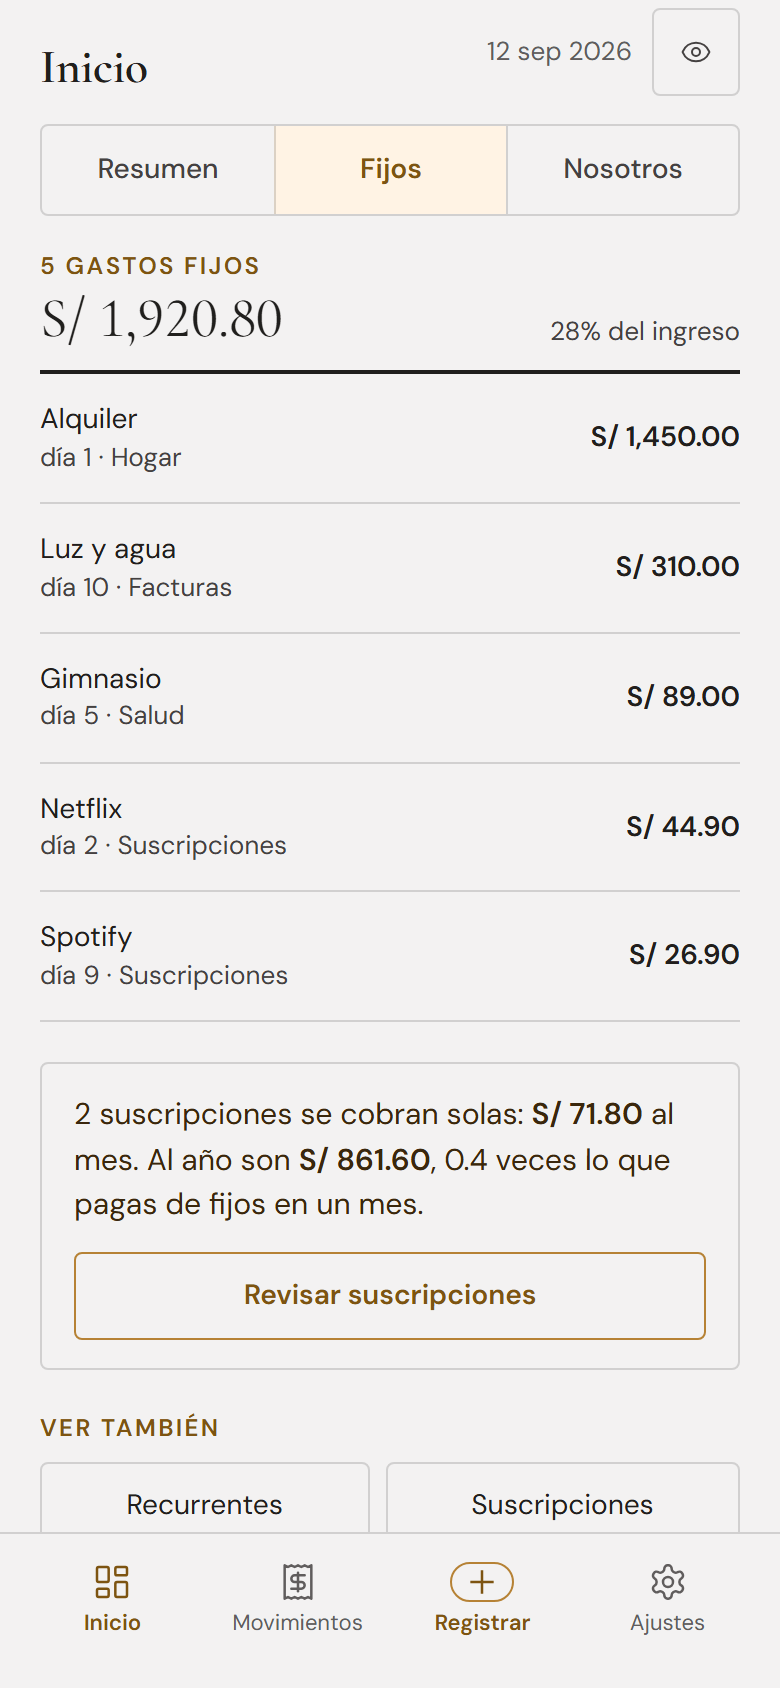
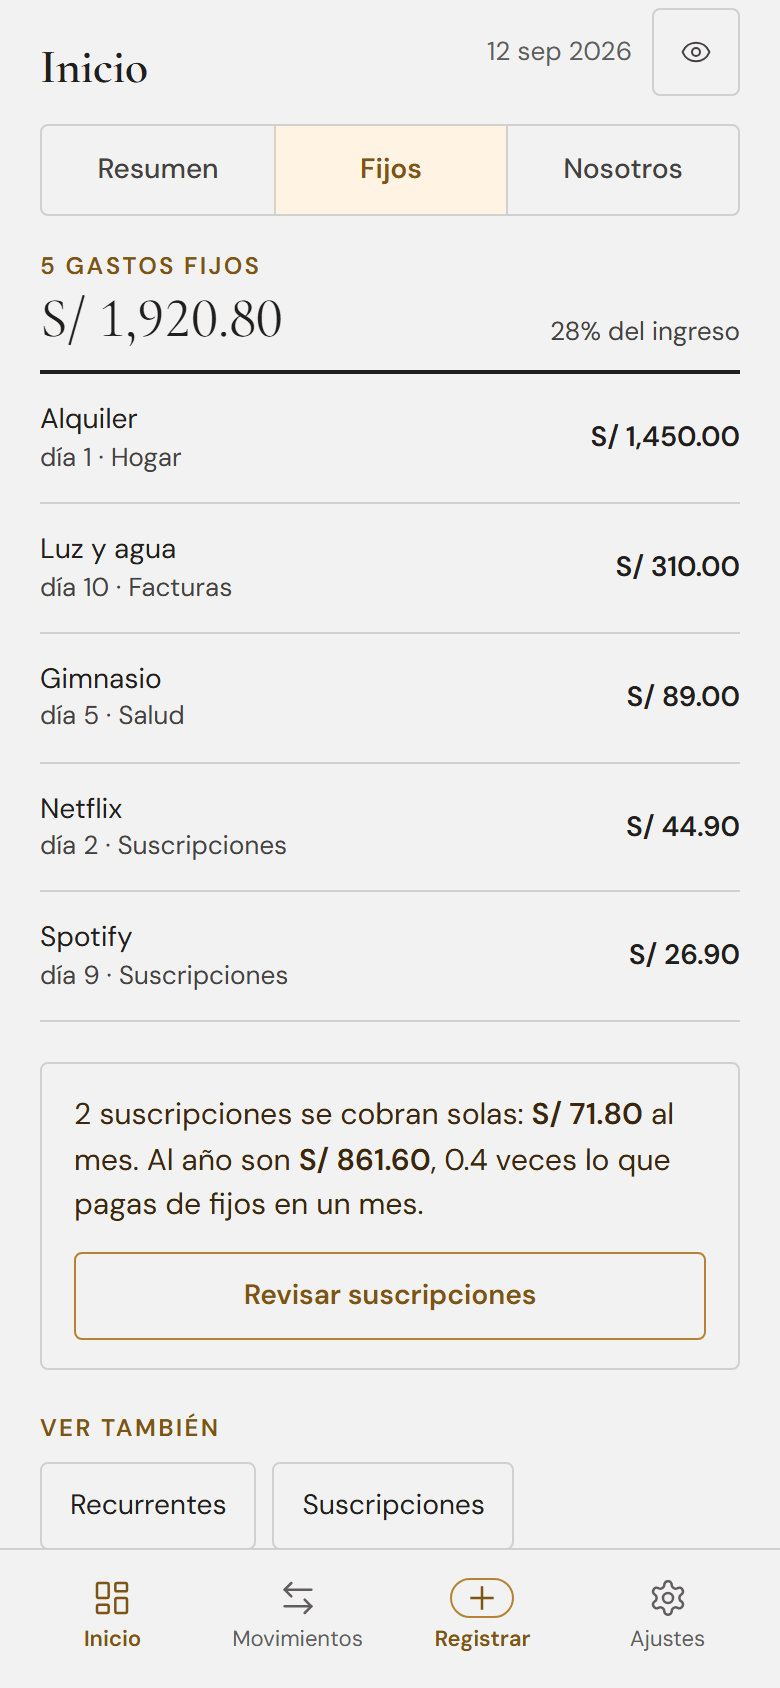
Capturas al dia y README con lo que la aplicacion hace ahora
Las tres imagenes se regeneraron con el codigo actual. No es cosmetico: hoy
cambio el icono de Movimientos --el recibo de lucide lleva un simbolo de dolar
dibujado dentro-- asi que las capturas mostraban una barra que ya no existe. Una
captura desactualizada en un README es una promesa que la aplicacion no cumple.

Siguen saliendo del arnes de shots/, con datos inventados a mano y el reloj
clavado al 12 de septiembre para que regenerarlas no las cambie sola cada dia.

El texto tambien se habia quedado atras en dos puntos que importan, porque son
justo los que alguien lee antes de confiarle sus finanzas a esto:

- «Un archivo JSON en tu servidor» ya no es cierto: es uno POR HOGAR, y un
  hogar no puede leer el de otro porque se resuelve desde la identidad de quien
  pregunta, no desde lo que pida.
- «Detras de Microsoft Entra ID» tampoco: tambien se entra con Google, y ahi el
  intercambio lo hace el servidor y emite su propia sesion firmada.

Y se documentan las variables que no existian: las tres de Google, opcionales, y
MIEMBROS_PRINCIPAL, con el porque de que falle cerrada.

Changed region(s): [[0.0923, 0.8626, 0.8308, 0.9858], [0.8, 0.9242, 0.9231, 0.9858], [0.9231, 0.8934, 0.9538, 0.9242]]

diff --git a/README.md b/README.md
@@ -39,6 +39,7 @@ no responde: **cuánto nos queda de verdad este mes** y **quién pagó qué**.
 | **Recurrentes y suscripciones** | Detecta cargos que se repiten a partir de tus movimientos, avisa cuando cambia el precio, cuando falta un cobro y cuando hay duplicados. Pausa un recurrente automáticamente si registras el pago antes de tiempo, y lo reanuda solo al llegar la fecha. |
 | **Nosotros** | Reparto por persona de lo que ya está asignado, y una cola de movimientos sin autor para asignarlos rápido. |
 | **Tarjeta de crédito** | Utilización, fecha límite, ciclo, TEA, simulador de pago, estrategia de cuotas y proyección al cierre. Importa el PDF del estado de cuenta del BCP y lo parsea en el navegador. |
+| **Hogares** | Los datos pertenecen a un hogar, no a una cuenta: sus dos personas ven exactamente lo mismo. Quien llega nuevo estrena el suyo, vacío, elige la moneda en la que lleva las cuentas, y para compartirlo llama a la otra persona por su correo. Al aceptar, lo que cada quien había apuntado por separado se une. |
 
 **Además:** presupuestos, metas de ahorro, patrimonio neto, recap anual,
 notificaciones push con un resumen diario y tipo de cambio en vivo.
@@ -51,10 +52,10 @@ Conviene ser explícito, porque son datos financieros.
 
 | | |
 |---|---|
-| **Almacenamiento** | Un archivo JSON en tu propio servidor, en la ruta que indique `DATA_DIR`. Sin base de datos ni servicio de terceros. |
-| **Acceso** | Detrás de Microsoft Entra ID. Cada petición valida el token contra las claves públicas de tu tenant. |
+| **Almacenamiento** | Un archivo JSON por hogar en tu propio servidor, bajo la ruta que indique `DATA_DIR`. Sin base de datos ni servicio de terceros. Un hogar nunca lee el archivo de otro: se resuelve desde la identidad de quien pregunta, no desde lo que pida. |
+| **Acceso** | Microsoft Entra ID o Google, a elección de quien entra. El token de Entra se valida contra las claves públicas de tu tenant; con Google el intercambio lo hace tu servidor y emite su propia sesión firmada. |
 | **PDF del banco** | Se parsean en el navegador con pdf.js. El archivo no se sube a ningún sitio. |
-| **Llamadas externas** | Solo Entra ID para el login, Microsoft Graph si usas la sincronización de correo, y un proveedor de tipo de cambio. |
+| **Llamadas externas** | Entra ID y, si lo activas, Google para el login; Microsoft Graph si usas la sincronización de correo; y un proveedor de tipo de cambio. |
 
 > [!IMPORTANT]
 > Si despliegas esto, el servidor es tuyo y los datos también. La
@@ -79,6 +80,17 @@ Edita `.env` con los identificadores de tu aplicación de Entra ID. Los cuatro
 valores de Azure son obligatorios: sin ellos ni el servidor ni el frontend
 arrancan, a propósito.
 
+La entrada con Google es opcional. Con `GOOGLE_CLIENT_ID`, `GOOGLE_CLIENT_SECRET`
+y `SESSION_SECRET` puestas, el servidor la habilita y `VITE_GOOGLE_ACTIVO=true`
+pinta el botón. Sin ellas la aplicación funciona igual, solo con Entra. El URI
+de redirección que hay que registrar en Google Cloud es
+`https://TU-DOMINIO/auth/google/callback`.
+
+`MIEMBROS_PRINCIPAL` nombra, por correo o por identificador, a quién pertenecen
+los datos que ya existían antes del reparto por hogares. Sin esa lista nadie los
+hereda, ni siquiera sus dueños: falla cerrada a propósito, porque la
+alternativa es que los reclame quien llegue primero.
+
 ```bash
 npm run dev     # frontend en http://localhost:3008
 npm start       # API en http://localhost:3007
@@ -95,7 +107,7 @@ npm run lint
 ### Stack
 
 React 18 · TypeScript · Vite · PWA con Workbox · Express · Recharts · MSAL
-(Microsoft Entra ID) · date-fns · Vitest.
+(Microsoft Entra ID) · OAuth de Google con sesión propia · date-fns · Vitest.
 
 Sin base de datos: un archivo JSON y un candado de escritura.
 
